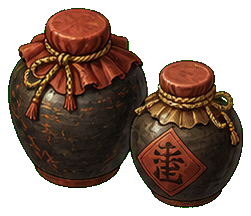
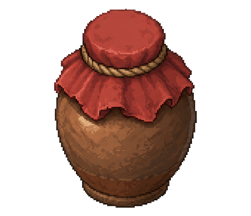
Redraw task42 furniture batch5

diff --git a/tools/cut_task42_furniture_batch5.py b/tools/cut_task42_furniture_batch5.py
@@ -1,0 +1,182 @@
+#!/usr/bin/env python3
+from pathlib import Path
+from PIL import Image, ImageDraw
+
+ROOT = Path(__file__).resolve().parents[1]
+SRC_DIR = ROOT / "assets/source/task42"
+
+ITEMS = {
+    "decor_vase": {
+        "src": "decor_vase_sheet_v1.png",
+        "out_dir": ROOT / "assets/furniture/decor",
+        "canvas": (123, 184),
+        "pad": 8,
+        "boxes": [
+            (140, 136, 524, 842),
+            (620, 136, 1002, 848),
+            (1100, 138, 1480, 850),
+            (1562, 140, 1944, 850),
+        ],
+    },
+    "decor_bonsai": {
+        "src": "decor_bonsai_sheet_v1.png",
+        "out_dir": ROOT / "assets/furniture/decor",
+        "canvas": (192, 227),
+        "pad": 8,
+        "boxes": [
+            (36, 214, 516, 760),
+            (576, 208, 1018, 762),
+            (1038, 214, 1492, 762),
+            (1532, 212, 2008, 764),
+        ],
+    },
+    "decor_wine": {
+        "src": "decor_wine_sheet_v1.png",
+        "out_dir": ROOT / "assets/furniture/decor",
+        "canvas": (251, 216),
+        "pad": 8,
+        "boxes": [
+            (28, 182, 492, 790),
+            (536, 182, 990, 792),
+            (1060, 186, 1514, 802),
+            (1556, 188, 2020, 800),
+        ],
+    },
+    "decor_wash_basin": {
+        "src": "decor_wash_basin_sheet_v1.png",
+        "out_dir": ROOT / "assets/furniture/decor",
+        "canvas": (246, 174),
+        "pad": 8,
+        "boxes": [
+            (36, 314, 496, 660),
+            (544, 314, 998, 662),
+            (1058, 314, 1502, 662),
+            (1566, 320, 2016, 662),
+        ],
+    },
+    "decor_floor_lamp": {
+        "src": "decor_floor_lamp_sheet_v1.png",
+        "out_dir": ROOT / "assets/furniture/decor",
+        "canvas": (136, 266),
+        "pad": 4,
+        "boxes": [
+            (190, 64, 458, 926),
+            (672, 64, 934, 926),
+            (1140, 64, 1402, 926),
+            (1590, 64, 1852, 926),
+        ],
+    },
+}
+
+SUFFIXES = ["", "_r1", "_r2", "_r3"]
+
+
+def white_to_alpha(im):
+    im = im.convert("RGBA")
+    px = im.load()
+    for y in range(im.height):
+        for x in range(im.width):
+            r, g, b, a = px[x, y]
+            dist = max(0, 255 - min(r, g, b))
+            if r > 248 and g > 248 and b > 248:
+                px[x, y] = (r, g, b, 0)
+            elif r > 242 and g > 242 and b > 242:
+                px[x, y] = (r, g, b, min(a, dist * 5))
+    return im
+
+
+def remove_small_fragments(im, min_area=120):
+    alpha = im.getchannel("A")
+    w, h = im.size
+    pix = alpha.load()
+    seen = set()
+    comps = []
+    for y in range(h):
+        for x in range(w):
+            if pix[x, y] <= 8 or (x, y) in seen:
+                continue
+            stack = [(x, y)]
+            seen.add((x, y))
+            pts = []
+            while stack:
+                px, py = stack.pop()
+                pts.append((px, py))
+                for nx in (px - 1, px, px + 1):
+                    for ny in (py - 1, py, py + 1):
+                        if nx < 0 or ny < 0 or nx >= w or ny >= h or (nx, ny) in seen:
+                            continue
+                        if pix[nx, ny] > 8:
+                            seen.add((nx, ny))
+                            stack.append((nx, ny))
+            comps.append(pts)
+    keep = set()
+    for pts in comps:
+        if len(pts) >= min_area:
+            keep.update(pts)
+    out = Image.new("RGBA", im.size, (0, 0, 0, 0))
+    src = im.load()
+    dst = out.load()
+    for x, y in keep:
+        dst[x, y] = src[x, y]
+    return out
+
+
+def strip_edge_alpha(im):
+    px = im.load()
+    w, h = im.size
+    for x in range(w):
+        px[x, 0] = px[x, 0][:3] + (0,)
+        px[x, h - 1] = px[x, h - 1][:3] + (0,)
+    for y in range(h):
+        px[0, y] = px[0, y][:3] + (0,)
+        px[w - 1, y] = px[w - 1, y][:3] + (0,)
+    return im
+
+
+def fit_canvas(crop, canvas, pad):
+    crop = remove_small_fragments(white_to_alpha(crop))
+    bbox = crop.getchannel("A").getbbox()
+    out = Image.new("RGBA", canvas, (0, 0, 0, 0))
+    if not bbox:
+        return out
+    spr = crop.crop(bbox)
+    max_w = canvas[0] - pad * 2
+    max_h = canvas[1] - pad * 2
+    scale = min(max_w / spr.width, max_h / spr.height)
+    nw = max(1, int(spr.width * scale))
+    nh = max(1, int(spr.height * scale))
+    spr = spr.resize((nw, nh), Image.Resampling.LANCZOS)
+    out.alpha_composite(spr, ((canvas[0] - nw) // 2, canvas[1] - pad - nh))
+    return strip_edge_alpha(remove_small_fragments(out))
+
+
+def make_preview(paths, out_path):
+    cell_w = max(Image.open(p).width for p in paths) + 22
+    cell_h = max(Image.open(p).height for p in paths) + 42
+    rows = (len(paths) + 3) // 4
+    preview = Image.new("RGBA", (cell_w * 4, cell_h * rows), (232, 229, 218, 255))
+    d = ImageDraw.Draw(preview)
+    for idx, path in enumerate(paths):
+        im = Image.open(path).convert("RGBA")
+        x = (idx % 4) * cell_w + (cell_w - im.width) // 2
+        y = (idx // 4) * cell_h + 10
+        preview.alpha_composite(im, (x, y))
+        d.text(((idx % 4) * cell_w + 8, y + im.height + 8), path.stem, fill=(0, 0, 0, 255))
+    preview.save(out_path)
+
+
+def main():
+    written = []
+    for item_id, cfg in ITEMS.items():
+        sheet = Image.open(SRC_DIR / cfg["src"]).convert("RGBA")
+        cfg["out_dir"].mkdir(parents=True, exist_ok=True)
+        for suffix, box in zip(SUFFIXES, cfg["boxes"]):
+            out = fit_canvas(sheet.crop(box), cfg["canvas"], cfg["pad"])
+            path = cfg["out_dir"] / f"{item_id}{suffix}.png"
+            out.save(path)
+            written.append(path)
+    make_preview(written, ROOT / "preview_task42_furniture_batch5_x2.png")
+
+
+if __name__ == "__main__":
+    main()
